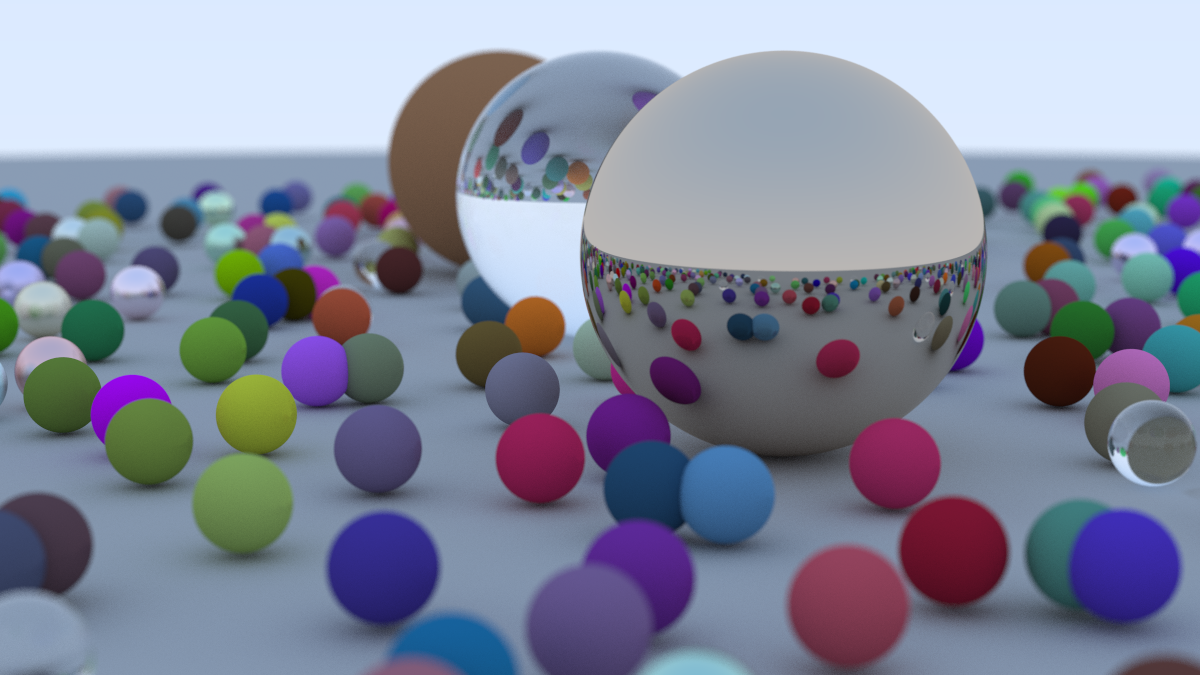
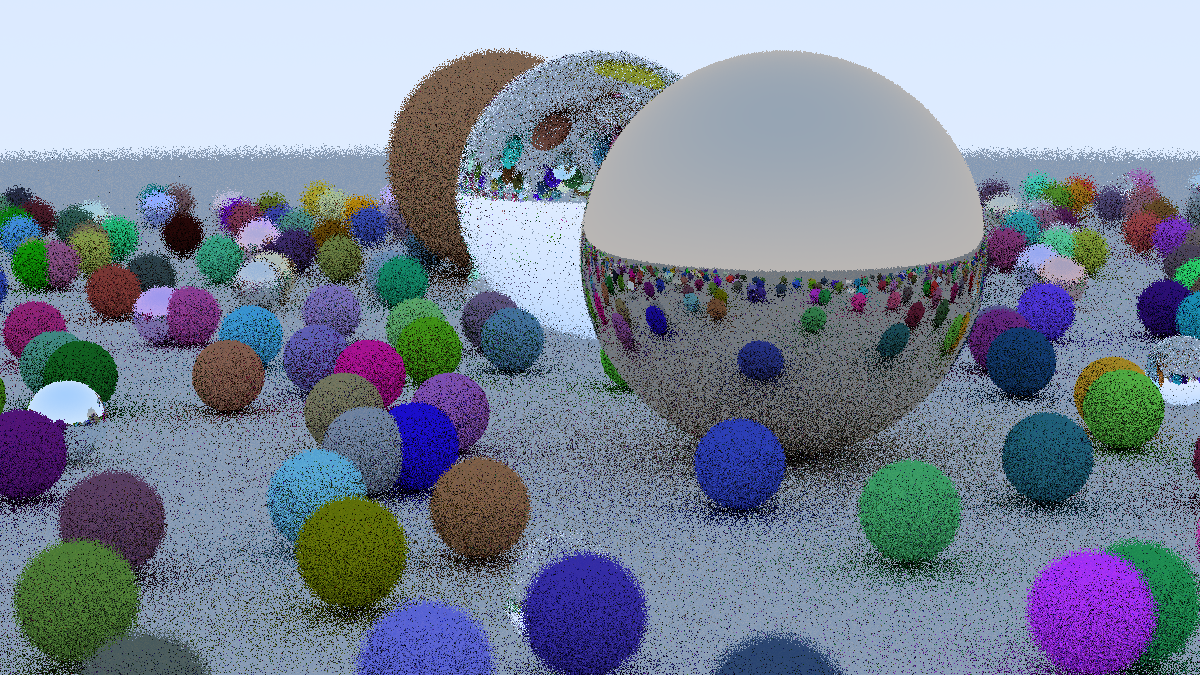
fixed write_pixel error and changed render function to use functional programming

diff --git a/src/camera.rs b/src/camera.rs
@@ -7,6 +7,8 @@ use super::ray::Ray;
 use super::vec3::Vec3;
 use super::Point;
 
+use rayon::prelude::*;
+
 #[derive(Debug)]
 pub struct Camera {
     center: Point,
@@ -68,7 +70,7 @@ impl Camera {
             focus_dist,
             defocus_angle,
             defocus_disk_u,
-            defocus_disk_v
+            defocus_disk_v,
         }
     }
 
@@ -82,7 +84,7 @@ impl Camera {
             Point::zero(),
             Point::new(0.0, 0.0, -1.0),
             10.0,
-            0.0
+            0.0,
         )
     }
 
@@ -106,19 +108,45 @@ impl Camera {
             println!("\rScanlines remaining: {} ", self.height() - j);
 
             for i in 0..self.width() {
-                let mut pixel_color = Color::new(0.0, 0.0, 0.0);
-                (0..self.samples).for_each(|iter| {
-                    let ray = self.get_ray(i, j);
-                    pixel_color += ray.color(world, self.max_depth);
-                });
-                self.write_pixel(&pixel_color, self.samples, image_data);
+                let pixel_color = (0..self.samples)
+                    .map(|_| {
+                        let ray = self.get_ray(i, j);
+                        ray.color(world, self.max_depth)
+                    })
+                    .reduce(|acc, color| (acc + color))
+                    .unwrap_or(Vec3::black());
+                self.write_pixel(&pixel_color, self.samples, image_data, (i, j));
             }
         }
 
         println!("\rDone.");
     }
 
-    fn write_pixel(&self, color: &Color, samples: u32, image_data: &mut Vec<u8>) {
+    pub fn render_parallel(&self, world: &(dyn Hittable + Sync + Send), image_data: &mut Vec<u8>) {
+        for j in 0..self.height() {
+            println!("\rScanlines remaining: {} ", self.height() - j);
+            for i in 0..self.width() {
+                let pixel_color = (0..self.samples)
+                    .into_par_iter()
+                    .map(|_| {
+                        let ray = self.get_ray(i, j);
+                        ray.color(world, self.max_depth)
+                    })
+                    .reduce(|| (Vec3::zero()), |a, b| (a + b));
+                self.write_pixel(&pixel_color, self.samples, image_data, (i, j));
+            }
+        }
+
+        println!("\rDone.");
+    }
+
+    fn write_pixel(
+        &self,
+        color: &Color,
+        samples: u32,
+        image_data: &mut Vec<u8>,
+        uv: (usize, usize),
+    ) {
         let scale = 1.0 / samples as f64;
 
         let intesity: Interval = Interval::new(0.0, 1.0);
@@ -133,9 +161,11 @@ impl Camera {
         let g = 255f64 * intesity.clamp(*color.g());
         let b = 255f64 * intesity.clamp(*color.b());
 
-        image_data.push(r as u8);
-        image_data.push(g as u8);
-        image_data.push(b as u8);
+        let index = uv.1 * (self.width() * 3) + uv.0 * 3;
+
+        image_data[index + 0] = r as u8;
+        image_data[index + 1] = g as u8;
+        image_data[index + 2] = b as u8;
     }
 
     fn get_ray(&self, i: usize, j: usize) -> Ray {
@@ -146,8 +176,7 @@ impl Camera {
 
         let ray_origin = if self.defocus_angle <= 0.0 {
             self.center
-        }
-        else {
+        } else {
             self.defocus_disk_sample()
         };
         let ray_direction = sample - ray_origin;

diff --git a/src/main.rs b/src/main.rs
@@ -14,7 +14,7 @@ fn main() {
     let mut raytracer = Raytracer::new(
         16.0 / 9.0,
         1200,
-        500,
+        1,
         50,
         20.0,
         Point::new(13.0, 2.0, 3.0),
